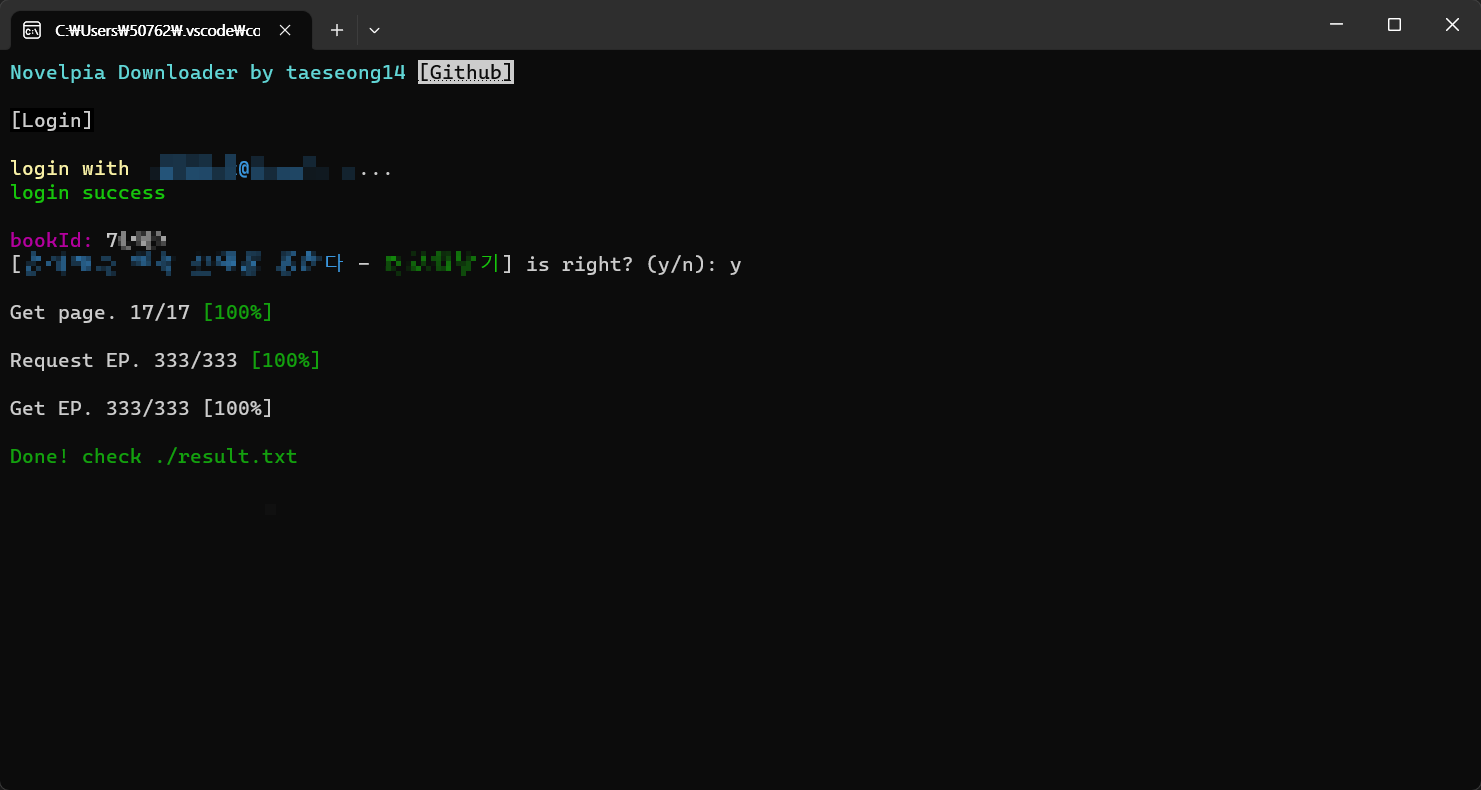
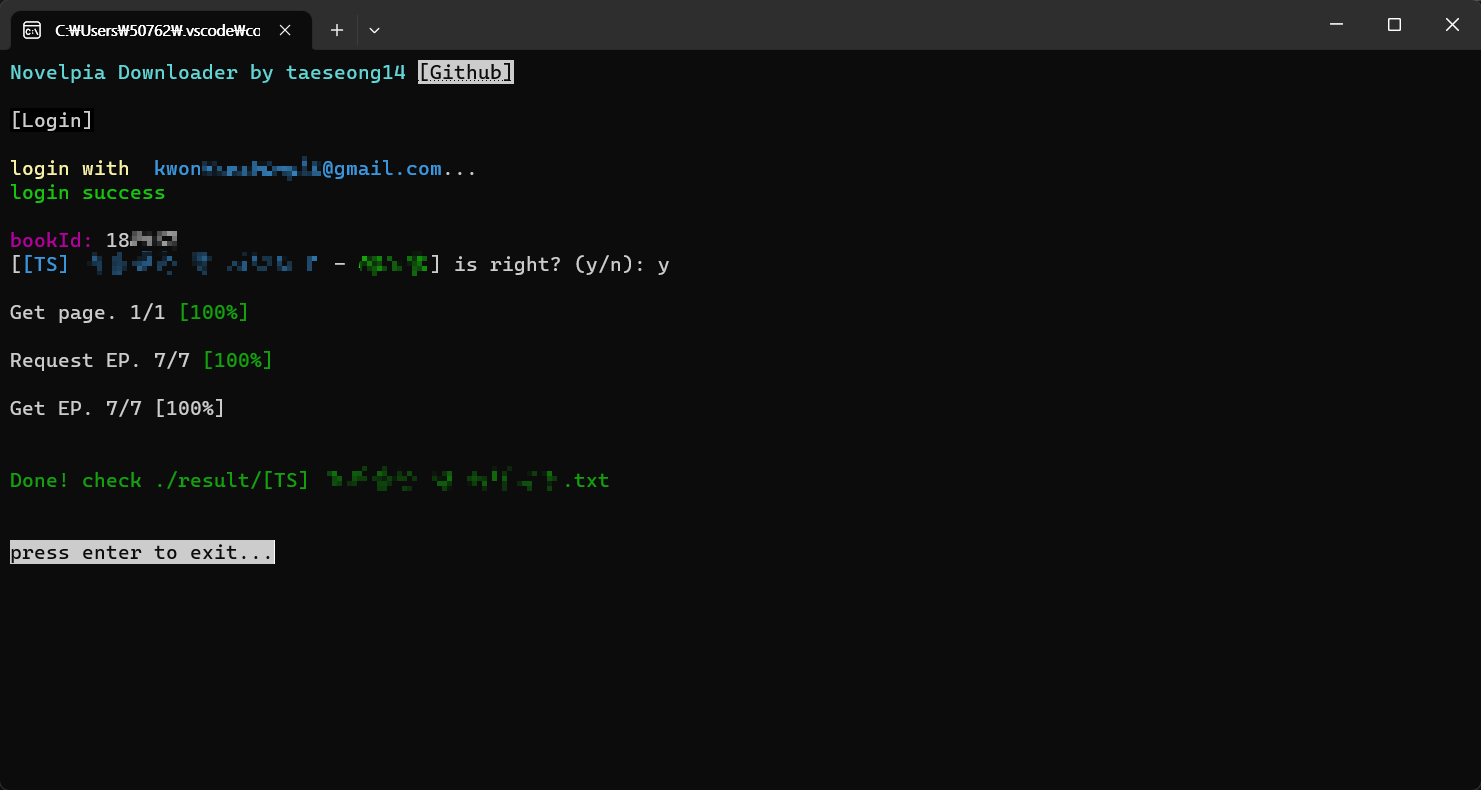
저장: result/소설명.txt | 화수 보기 추가

diff --git a/downloader.go b/downloader.go
@@ -103,7 +103,19 @@ func main() {
 	}
 
 	info := res["result"].(map[string]interface{})
-	fmt.Printf("\r[%s - %s] is right? (y/n): ", aurora.Cyan(info["title"]), aurora.BrightGreen(info["author"]))
+	title := info["title"].(string)
+	// replace invalid filename - thank you for copilot!
+	title = strings.ReplaceAll(title, "/", "／")
+	title = strings.ReplaceAll(title, "\\", "＼")
+	title = strings.ReplaceAll(title, ":", "：")
+	title = strings.ReplaceAll(title, "*", "＊")
+	title = strings.ReplaceAll(title, "?", "？")
+	title = strings.ReplaceAll(title, "\"", "＂")
+	title = strings.ReplaceAll(title, "<", "＜")
+	title = strings.ReplaceAll(title, ">", "＞")
+	title = strings.ReplaceAll(title, "|", "｜")
+
+	fmt.Printf("\r[%s - %s] is right? (y/n): ", aurora.Cyan(title), aurora.BrightGreen(info["author"]))
 
 	var yn string
 	fmt.Scan(&yn)
@@ -146,10 +158,17 @@ func main() {
 	}
 
 	fmt.Printf("\rGet EP. %.0f/%.0f", resResult.Last, resResult.Last)
+	fmt.Println()
 
-	os.WriteFile("result.txt", []byte(strings.TrimSpace(strings.Join(result, "\n\n\n\n\n\n\n\n\n\n"))), 0644)
+	if _, err := os.Stat("result"); os.IsNotExist(err) {
+		fmt.Print(aurora.BrightRed("\rresult dir not exist"))
+		os.Mkdir("result", 0755)
+		fmt.Println(aurora.BrightGreen("\rresult dir created"))
+	}
 
-	fmt.Println(aurora.Green("\n\nDone! check ./result.txt"))
+	os.WriteFile("result/"+title+".txt", []byte(strings.TrimSpace(strings.Join(result, "\n\n\n\n\n\n\n\n\n\n"))), 0644)
+
+	fmt.Println(aurora.Green("\n\nDone! check ./result/" + title + ".txt"))
 
 	end()
 }
@@ -179,11 +198,11 @@ func getEp(LOGINKEY string, page *Result, max float64, i int, ch chan Chan, trie
 		return
 	}
 
-	ch <- Chan{page.Title + "\n\n\n\n\n" + res["result"].(string), i}
+	ch <- Chan{"[" + strconv.Itoa(i+1) + "화] " + page.Title + "\n\n\n\n\n" + res["result"].(string), i}
 }
 
 func end() {
-	fmt.Print(aurora.BrightWhite("\n\npress enter to exit...").Black())
+	fmt.Print(aurora.BgWhite("\n\npress enter to exit...").Black())
 	fmt.Scanln()
 	fmt.Scanln()
 }

diff --git a/README.md b/README.md
@@ -2,6 +2,14 @@
 
 노벨피아 다운로더
 
+
+> 개발노트
+
+ - 화수 추가중
+ - 설정 추가예정(계정, 삽화 url 유무, 화수(1화, 2화) 유무 등등)
+
+
+
 > 사용법
 
  * 1. 릴리즈([v0.0.3](https://github.com/taeseong14/N-down/releases/tag/v0.0.3))에서 "downloader.zip" 을 받는다
@@ -11,7 +19,7 @@
  * 5. 끝날때까지 기다린다
 
 끝!
-result.txt에서 확인하십숑
+result/[소설명].txt 에서 확인하십숑
 
 예제:
 ![예제](Example.png)
